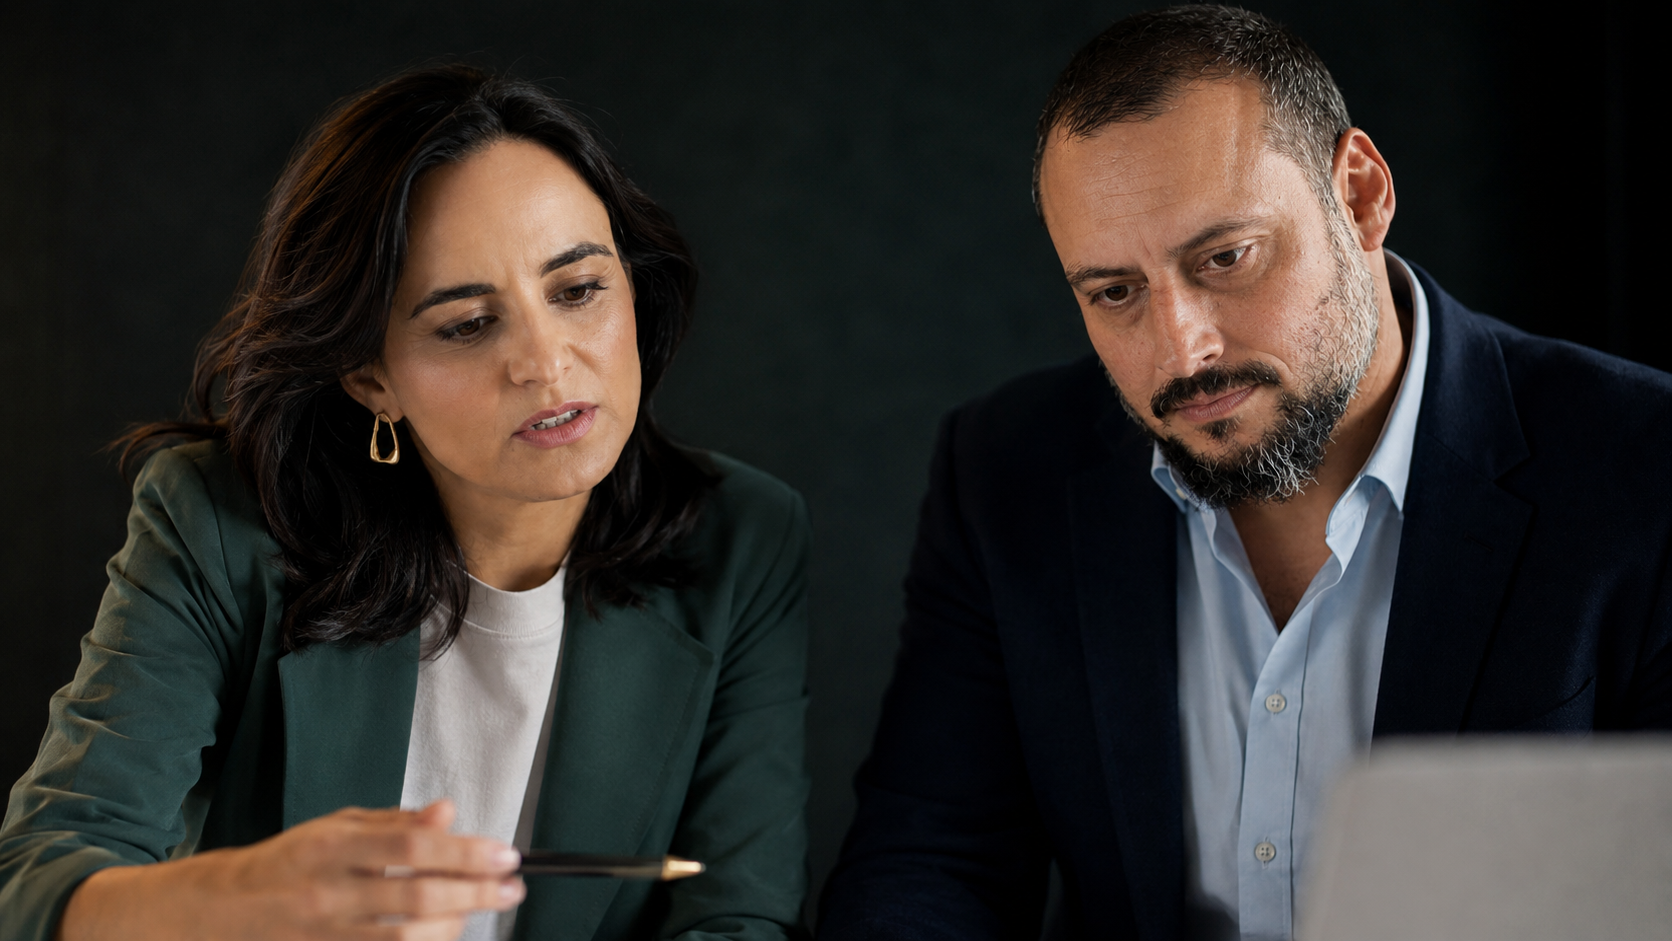
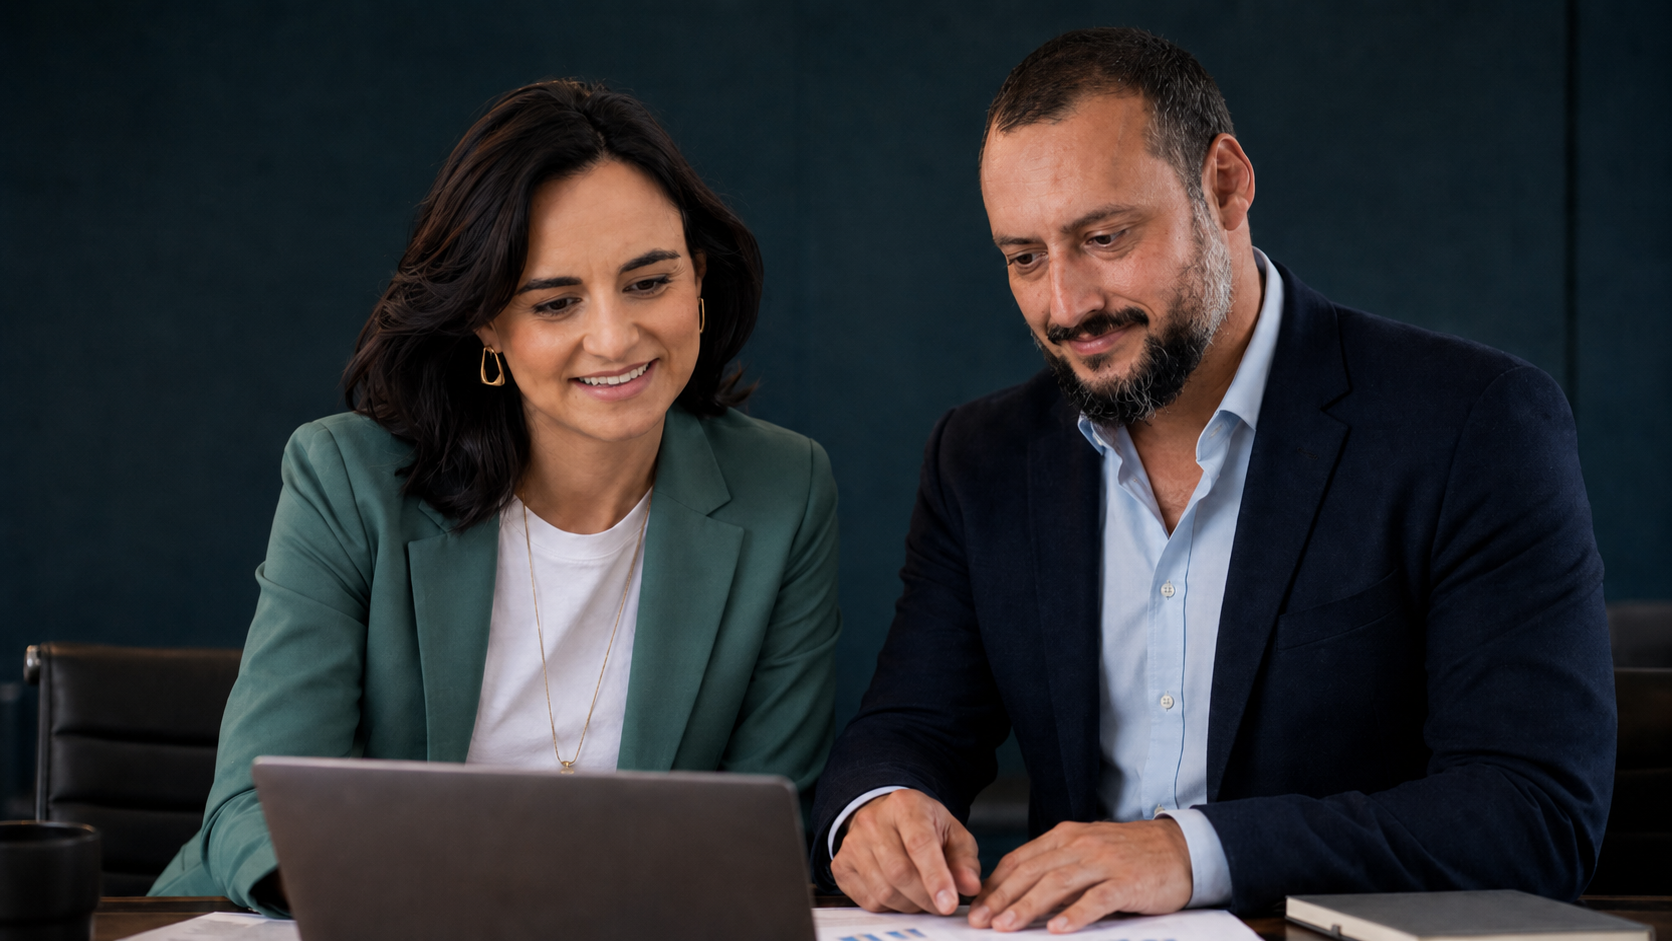
pt.23 fotos canonicas nos2 fillout eager

diff --git a/app/sobre/page.tsx b/app/sobre/page.tsx
@@ -167,7 +167,7 @@ export default function SobrePage() {
           {/* FOTO */}
           <div className="w-full overflow-hidden mb-8" style={{ aspectRatio: "4/5", borderRadius: "2px", maxHeight: "560px" }}>
             <Image
-              src="/gabriela-aguiar.jpg"
+              src="/gabriela-aguiar.png"
               alt="Gabriela Aguiar, CEO e cofundadora da Pira Labs"
               width={640}
               height={800}
@@ -245,7 +245,7 @@ export default function SobrePage() {
           {/* FOTO */}
           <div className="w-full overflow-hidden mb-8" style={{ aspectRatio: "4/5", borderRadius: "2px", maxHeight: "560px" }}>
             <Image
-              src="/celso-gama.jpg"
+              src="/celso-gama.png"
               alt="Celso Gama, COO e cofundador da Pira Labs"
               width={640}
               height={800}

diff --git a/app/inspira/oxigenio/page.tsx b/app/inspira/oxigenio/page.tsx
@@ -398,7 +398,7 @@ export default function OxigenioPage() {
         <div className="flex flex-col md:flex-row gap-8 items-start max-w-3xl">
           <div className="shrink-0">
             <Image
-              src="/nos.png"
+              src="/nos2.png"
               alt="Gabriela Aguiar e Celso Gama, cofundadores da Pira Labs"
               width={200}
               height={133}

diff --git a/app/en/page.tsx b/app/en/page.tsx
@@ -363,7 +363,7 @@ export default function EnHomePage() {
       <Section variant="default" paddingY="lg">
         <div className="max-w-2xl">
           <Image
-            src="/nos.png"
+            src="/nos2.png"
             alt="Gabriela Aguiar and Celso Gama, co-founders of Pira Labs"
             width={800}
             height={533}

diff --git a/components/shared/FilloutEmbed.tsx b/components/shared/FilloutEmbed.tsx
@@ -22,7 +22,7 @@ export default function FilloutEmbed() {
       height="700"
       style={{ border: "none" }}
       title="Formulário de contato Pira Labs"
-      loading="lazy"
+      loading="eager"
     />
   );
 }
